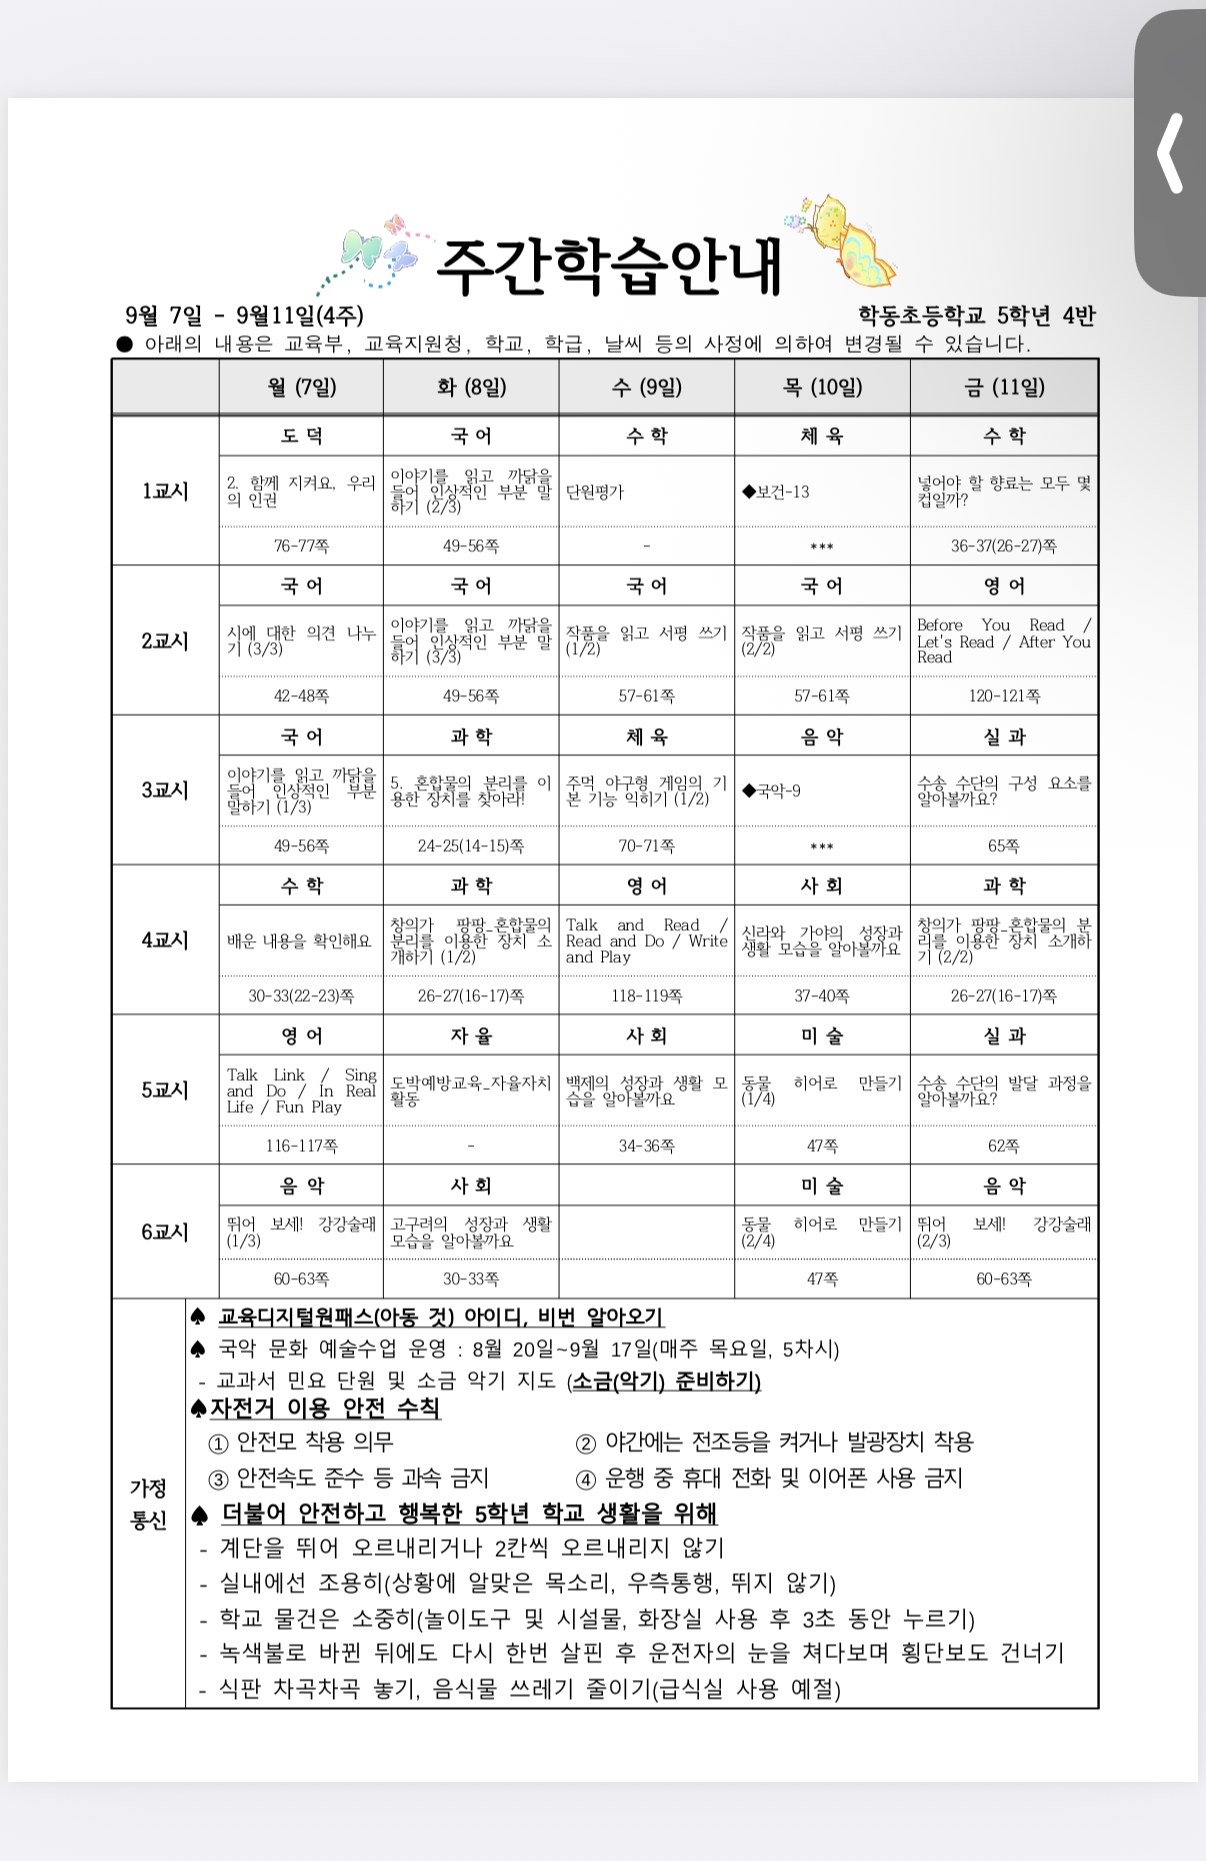
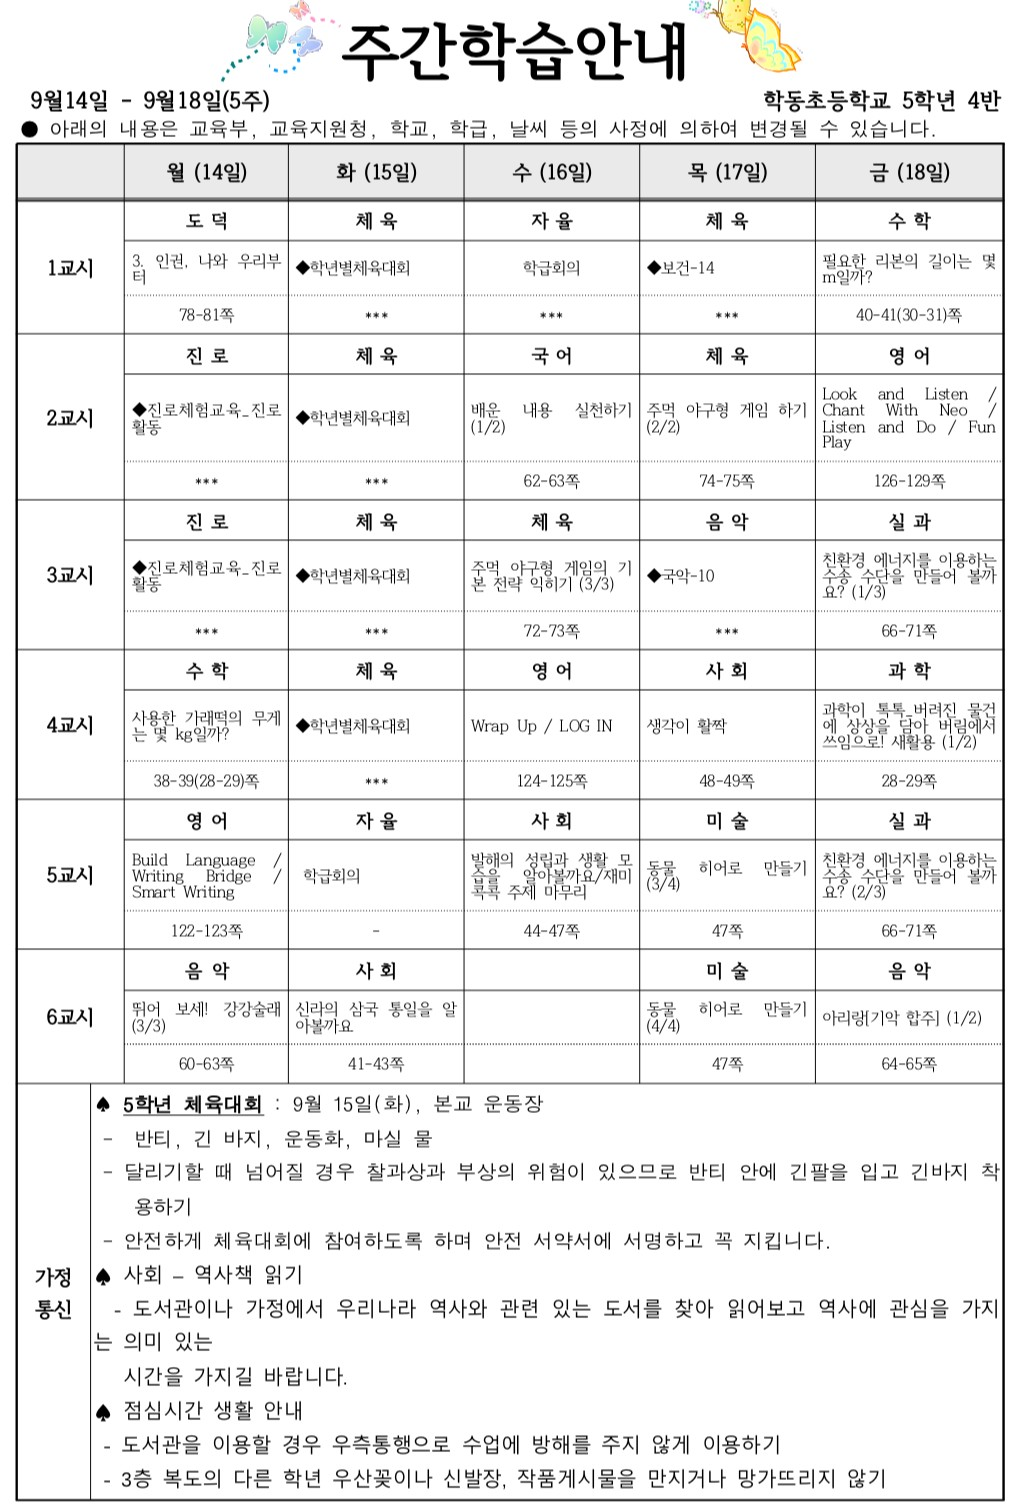
Add files via upload

Changed region(s): [[0.0, 0.0, 1.0, 0.9993], [0.9678, 0.9681, 0.999, 0.9993], [0.0, 0.9681, 0.0312, 0.9993]]

diff --git a/index.html b/index.html
@@ -309,6 +309,7 @@
         <button class="track intl" data-track="intl"><div class="temo">🌍</div><div><div class="tname">국제학교 준비</div><div class="tdesc" id="intlDesc">영어로 · 입학시험 대비</div></div><div class="tarr">›</div></button>
         <button class="track" data-curric="1"><div class="temo" style="background:var(--good-soft)">📚</div><div><div class="tname">이번 주 학교 진도</div><div class="tdesc">수업 전 예습 요약 · 배운 단원 복습 문제</div></div><div class="tarr">›</div></button>
         <button class="track" data-planner="1"><div class="temo" style="background:var(--accent-soft)">📅</div><div><div class="tname">학교생활 플래너</div><div class="tdesc">시간표 · 학원 · 준비물 · 공지</div></div><div class="tarr">›</div></button>
+        <button class="track" id="examTrackBtn" data-exam="1" style="display:none"><div class="temo" style="background:#ffe0e6">📝</div><div><div class="tname">중간고사 준비</div><div class="tdesc">2학기 1차 · 과목별 시험범위 요약 · 예상문제</div></div><div class="tarr">›</div></button>
       </div>
     </div>
 
@@ -530,6 +531,8 @@
     <div id="acList"></div>
     <div class="section-t">🎒 준비물</div>
     <div id="supList"></div>
+    <div class="section-t" id="alrimTitle" style="display:none">📮 이번 주 알림장</div>
+    <div id="plAlrim"></div>
     <div class="section-t">📌 학교 공지 · 메모</div>
     <textarea id="plNotice" class="plnotice" placeholder="학교 공지사항이나 메모를 적어요 (붙여넣기 가능)"></textarea>
     <div class="note-inline" style="margin-top:8px">✏ 입력하면 자동 저장돼요 (이 기기)</div>
@@ -558,6 +561,11 @@
     <div class="qtop"><button class="back" id="curBack" aria-label="뒤로">←</button><div class="qcount" id="curTitle" style="flex:1">📚 이번 주 학교 진도</div></div>
     <div id="curBody"></div>
     <div id="curQuiz" class="hidden"></div>
+  </div>
+
+  <div id="exam" class="hidden">
+    <div class="qtop"><button class="back" id="examBack" aria-label="뒤로">←</button><div class="qcount" id="examTitle" style="flex:1">📝 중간고사 준비</div></div>
+    <div id="examBody"></div>
   </div>
 </div>
 
@@ -1172,7 +1180,7 @@
   let ivIndex=0, ivRecog=null, ivRecActive=false;
   let practiceMode=false;
 
-  function show(s){ ["home","quiz","result","wrongbook","interview","readhw","pin","units","cal","status","glossary","readaloud","admin","wordorder","dict","summary","planner","viet","curric","submenu","adminchild"].forEach(x=>$(x).classList.toggle("hidden", x!==s)); const cb=$("crumb"); if(cb) cb.textContent=(s==="admin"||s==="adminchild")?"관리":((typeof child!=="undefined"&&child)?child.name:"시작"); window.scrollTo(0,0); }
+  function show(s){ ["home","quiz","result","wrongbook","interview","readhw","pin","units","cal","status","glossary","readaloud","admin","wordorder","dict","summary","planner","viet","curric","submenu","adminchild","exam"].forEach(x=>$(x).classList.toggle("hidden", x!==s)); const cb=$("crumb"); if(cb) cb.textContent=(s==="admin"||s==="adminchild")?"관리":((typeof child!=="undefined"&&child)?child.name:"시작"); window.scrollTo(0,0); }
   function homeStep(step){ $("vChild").classList.toggle("hidden",step!=="child"); $("vTrack").classList.toggle("hidden",step!=="track"); $("vSubject").classList.toggle("hidden",step!=="subject"); }
   function setCrumb(){ let t=child?child.name:"시작"; if(!$("vTrack").classList.contains("hidden")) t=child.name; if(!$("vSubject").classList.contains("hidden")) t=child.name+" · "+TRACKS[track].label; $("crumb").textContent=t; }
 
@@ -1227,6 +1235,7 @@
       $("krDesc").textContent = (child.g===8?"중2 과정":child.kGrade)+" · 수학·국어·영어";
       $("intlDesc").textContent = "영어로 · "+child.intlG+" "+child.intlNote;
     }
+    var eb=$("examTrackBtn"); if(eb) eb.style.display=(!adult && child.name==="태운")?"":"none";  // 중간고사: 태운 전용
     homeStep("track"); setCrumb(); show("home");
   }
   $("trackBack").addEventListener("click",gotoChild);
@@ -2090,8 +2099,29 @@
   function getPlan(){ const saved=LS.get(plKey(),null); return saved || defaultPlan(child.name); }
   function escAttr(s){ return String(s).replace(/&/g,'&amp;').replace(/"/g,'&quot;').replace(/</g,'&lt;'); }
   function openPlanner(){ renderPlanner(); show("planner"); }
+  // 담임 알림장 (실제 알림장 기반 · 주간)
+  const ALRIM = {
+    "태희": { when:"9월 11일(금) · 설운경 선생님", items:[
+      "다음 주 읽을 책 정하기 (주말에도 40쪽 분량 읽고 오기)",
+      "소금 '도라지' 연습하기 (소금 악보로)",
+      "사회 배운 내용 교과서·공책 읽으며 복습하기",
+      "체육대회 — 화요일(9/15): 반티, 긴팔 상하의, 모자, 물, 운동화",
+      "안전하고 즐거운 주말 보내고 오기" ] },
+    "태정": { when:"이번 주 알림 · 4학년 3반", items:[
+      "안전: 독감 주의(손씻기·마스크), 일교차 큼 → 얇은 겉옷 챙기기",
+      "숙제(이번 주 많음!): 수학 수행평가지 부모님 확인받아 오기(7·13·19번)",
+      "실과 54~55쪽 정리하기",
+      "배움공책에 '한글' 주제로 새로운 사실 1가지 조사(4~5줄)",
+      "독서감상문 — 독서기록장에 쓰기",
+      "월요일: 줄넘기 챙기기 · 준비물/과제 스스로 챙기기",
+      "※ 2학기엔 숙제 당일 제출 안 되면 남아서 해요 — 미리미리!" ] }
+  };
   function renderPlanner(){
     const pl=getPlan(); $("plTitle").textContent="📅 "+child.name+" 플래너";
+    // 알림장 카드
+    var al=ALRIM[child.name], aw=$("plAlrim"), at=$("alrimTitle");
+    if(al){ at.style.display=""; aw.innerHTML='<div class="card" style="margin-bottom:6px"><div class="note-inline" style="margin-bottom:8px">'+al.when+'</div><ul style="margin:0;padding-left:18px;line-height:1.8;font-size:.9rem">'+al.items.map(function(x){return "<li>"+x+"</li>";}).join("")+'</ul></div>'; }
+    else { at.style.display="none"; aw.innerHTML=""; }
     let th='<thead><tr><th>교시</th>'+PLDAYS.map(function(d){return '<th>'+d+'</th>';}).join('')+'</tr></thead><tbody>';
     var mpx=6; Object.keys(pl.tt).forEach(function(k){ var p=parseInt((k.split('-')[1]||'0'),10); if(p>mpx)mpx=p; });
     for(var pr=1;pr<=mpx;pr++){ th+='<tr><td>'+pr+'</td>'+PLDAYS.map(function(d){ var v=(pl.tt[d+'-'+pr]||''); return '<td><input class="pl-in" data-tt="'+d+'-'+pr+'" value="'+escAttr(v)+'"></td>'; }).join('')+'</tr>'; }
@@ -2637,6 +2667,87 @@
   }
   $("curBack").addEventListener("click",gotoTrack);
   document.querySelectorAll('[data-curric]').forEach(b=>b.addEventListener("click",openCurric));
+
+  // ============ 태운 중간고사 준비 (석우중 2학년 · 2학기 1차) ============
+  const EXAM_TAEUN = [
+    { emo:"📐", subj:"수학", badges:["IV. 삼각형과 사각형의 성질","교과서 p.136~179 (프린트·학습지 포함)","총 22문항 (선택 19 + 논술 3)"],
+      sum:["이등변삼각형: 두 밑각의 크기가 같다. 꼭지각의 이등분선은 밑변을 수직이등분한다.",
+           "삼각형의 외심 = 세 변의 수직이등분선의 교점 → 세 꼭짓점까지 거리가 같다(외접원 반지름).",
+           "삼각형의 내심 = 세 내각의 이등분선의 교점 → 세 변까지 거리가 같다(내접원 반지름).",
+           "평행사변형의 성질: 두 쌍의 대변·대각이 각각 같고, 두 대각선은 서로 이등분한다.",
+           "직사각형(대각선 길이 같음)·마름모(대각선이 수직이등분)·정사각형·등변사다리꼴의 성질 구분.",
+           "평행선 사이 넓이: 밑변과 높이가 같으면 넓이가 같다."],
+      ex:[["이등변삼각형 ABC(AB=AC)에서 꼭지각 ∠A=40°일 때 ∠B의 크기는?","∠B=∠C=(180−40)/2 = 70°"],
+          ["평행사변형 ABCD에서 ∠A=110°이면 이웃한 ∠B는?","대각의 합 180° → ∠B = 70°"],
+          ["삼각형의 외심에서 세 꼭짓점까지의 거리가 같은 이유를 서술하시오. (논술)","외심은 세 변의 수직이등분선의 교점이고, 수직이등분선 위의 점은 양 끝점까지 거리가 같으므로 세 꼭짓점까지의 거리가 모두 같다."],
+          ["마름모의 두 대각선이 갖는 성질 2가지를 쓰시오.","① 서로 다른 것을 수직이등분한다 ② 각 대각선이 마름모의 대각을 이등분한다."]] },
+    { emo:"📖", subj:"국어", badges:["1단원(2) 문학 속의 삶","2단원(1)(2) 읽기·글쓰기","4단원(2) 매체 자료","선택 22 + 논술 2 · 연계 학습지 필수"],
+      sum:["작품: 「수난이대」, 「가난한 사랑 노래」, 시 3편(학습지) — 연계 학습지 전부 꼼꼼히!",
+           "「수난이대」(하근찬): 만도(아버지)-진수(아들) 2대에 걸친 수난(일제 강제징용·6·25). '외나무다리'는 고난 극복과 부자의 화해·협력을 상징.",
+           "「가난한 사랑 노래」(신경림): 가난 때문에 포기하는 것들. 설의법·반어 등 표현법과 그 효과.",
+           "글과 자료 평가하며 읽기: 내용의 타당성·신뢰성·공정성을 판단하며 읽기.",
+           "복합양식(글+그림+도표) 자료를 활용한 글쓰기, 매체가 현실을 재현하는 방식(관점·의도) 파악."],
+      ex:[["「수난이대」에서 '외나무다리'가 상징하는 바는?","2대에 걸친 수난의 극복, 그리고 아버지와 아들의 화해·협력."],
+          ["「가난한 사랑 노래」에 쓰인 표현법 1가지와 효과를 서술하시오. (논술)","설의법('왜 모르겠는가') — 가난 때문에 감정마저 포기해야 하는 현실을 강조하고 독자의 공감을 이끈다."],
+          ["글의 신뢰성을 판단하는 기준은?","출처가 분명하고 근거(자료·통계)가 정확하며 최신인지, 전문성이 있는지 확인한다."]] },
+    { emo:"🔬", subj:"과학", badges:["과학A: Ⅰ.물질의 특성 (p.12~31, 45~47)","과학B: Ⅶ.전기와 자기 (p.234~249, 267~269)","선택 22(90점)+논술 2(10점) = 24문항"],
+      sum:["순물질(한 종류)과 혼합물(둘 이상), 균일/불균일 혼합물 구분.",
+           "물질의 특성 = 끓는점·녹는점·어는점·밀도·용해도 (물질마다 고유한 값).",
+           "밀도 = 질량/부피. 밀도가 크면 가라앉고 작으면 뜬다.",
+           "용해도 = 일정 온도에서 용매 100g에 녹는 용질의 최대 g수.",
+           "혼합물 분리: 끓는점 차(증류), 밀도 차, 용해도 차(재결정), 거름.",
+           "전류·전압·저항, 옴의 법칙 V=I×R. 저항의 직렬·병렬 연결.",
+           "전류의 자기 작용(도선 주위 자기장), 자기장 속 전류가 받는 힘(전동기), 전자기 유도(발전기)."],
+      ex:[["저항 5Ω 양끝에 10V를 걸면 흐르는 전류의 세기는?","I = V/R = 10/5 = 2A"],
+          ["밀도가 물(1g/㎤)보다 큰 물질은 물에 뜰까 가라앉을까?","가라앉는다."],
+          ["순물질과 혼합물의 차이를 예를 들어 서술하시오. (논술)","순물질은 한 종류의 물질로 이루어져 끓는점 등이 일정하다(예: 물, 소금). 혼합물은 두 종류 이상이 섞여 성분비에 따라 성질이 달라진다(예: 소금물, 공기)."]] },
+    { emo:"📜", subj:"역사", badges:["교과서 108~121 · 130~134 · 172~174쪽","객관식 5지선다 20문항(100점)","전 범위 고르게 출제"],
+      sum:["시험범위가 3개 구간으로 나뉘어 있어요 → 각 구간 페이지를 빠짐없이 정리!",
+           "교과서 본문뿐 아니라 읽기 자료·사진·지도·연표까지 꼼꼼히 (사진/지도 보고 시대·사건 맞히는 문제 대비).",
+           "5지선다 20문항이 전 범위에 고르게 나오니, 특정 단원만 보지 말고 전체를 얕고 넓게 훑기.",
+           "💡 정확한 단원명을 알려주면(교과서 108·130·172쪽 소제목) 내가 단원별 핵심 요약·예상문제를 딱 맞게 채워줄게요!"],
+      ex:[["시험 유형 예시","「다음 지도가 나타내는 시기의 정치 상황으로 옳은 것은?」처럼 지도·사진 자료 해석형이 자주 나와요."],
+          ["공부 팁","페이지마다 ①핵심 사건 ②연도 ③관련 인물·문화재 사진을 카드로 정리하면 5지선다에 강해져요."]] },
+    { emo:"🛠", subj:"기술·가정 (논술)", badges:["재료의 특성에 따른 활용 논술","평가일 9월 2~3주초"],
+      sum:["1. 목재의 특성(2가지): 가볍고 가공이 쉽다 / 열·전기를 잘 전달하지 않는다(단열) / 무늬가 아름답다 / 단, 습기에 약해 변형·부패가 될 수 있다.",
+           "2. 목재 침대용 가공재: 집성목(작은 목재를 접착 → 변형이 적고 큰 판 제작) 또는 합판(얇은 판을 엇결로 붙여 뒤틀림이 적음).",
+           "3. 철금속: 철에 탄소를 넣으면 단단해진다. 탄소강(탄소 약 0.035~2.11%)은 강도·경도가 크다. 주철(탄소 2.11% 이상)은 잘 부서지지만 녹여 틀에 붓는 주조에 적합.",
+           "4. 열가소성 플라스틱: 열을 가하면 물러지고 식으면 굳어 재가공·재활용 가능(폴리에틸렌PE, 폴리프로필렌PP). 열경화성 플라스틱: 한 번 굳으면 열을 가해도 다시 물러지지 않음(페놀수지, 멜라민수지).",
+           "5. 실생활 제품 소개(95~105자): 재료 명칭·특성·가공 방법을 넣어 한 단락으로."],
+      ex:[["실생활 제품 소개 예시문 (95~105자)","스테인리스 텀블러는 철에 크롬을 섞은 스테인리스강으로 만든다. 녹이 잘 슬지 않고 보온이 잘돼, 판을 둥글게 말고 용접해 이중벽을 만든 뒤 진공 처리해 완성한다."]] },
+    { emo:"⚖", subj:"도덕 (수행)", badges:["환경보호 게시물 만들기 25점","평가일 9/10 (완료)"],
+      sum:["사상가 1명 선택 → 시각자료(인물 사진) + 자연을 바라보는 관점 서술 + 자연 개발 찬반 글 + 관련 해시태그 2개(#0000 형식) + 인간·자연의 바람직한 관계를 4컷 만화로.",
+           "답안은 검정 볼펜, 교과서·학습지 내용으로 정확히, 40분."] , ex:[] },
+    { emo:"🇨🇳", subj:"중국어 (수행)", badges:["한어병음 말하기 구술 25점(25%)","반별 9/28~9/30"],
+      sum:["성조 4개: 1성(ā 높고 평평)·2성(á 올림)·3성(ǎ 내렸다 올림)·4성(à 내림).",
+           "성조·성모·운모를 정확히, 연속 성조(3성+3성 → 2성+3성 변조)에 유의해 읽기.",
+           "간단한 문장으로 대답하기 + 한어병음 보고 소리 내어 읽기. 1인당 제한 시간 1분(시작 전 학번·이름 말하기).",
+           "💡 매일 병음 5개씩 큰 소리로 또박또박 읽기 연습 추천."], ex:[] },
+    { emo:"🎵", subj:"음악 (수행)", badges:["2학기 수행평가 일정 진행","소금·국악 등"],
+      sum:["소금 '도라지' 등 실기 곡 연습 + 국악/가창 수행평가 일정 확인.",
+           "학교 배부 '수행평가 일정(2학기)' 캘린더대로 준비."], ex:[] }
+  ];
+  function openExam(){
+    $("examTitle").textContent="📝 태운 · 중간고사 준비 (2학기 1차)";
+    var wrap=$("examBody"); wrap.innerHTML="";
+    var intro=document.createElement("div"); intro.className="note-inline"; intro.style.margin="4px 0 12px";
+    intro.innerHTML="석우중학교 2학년 · 2학기 1차 정기시험 대비예요. 과목을 눌러 시험범위 요약과 예상문제를 확인하세요. 예상문제는 <b>「답·해설」</b>을 눌러 확인해요.";
+    wrap.appendChild(intro);
+    EXAM_TAEUN.forEach(function(s){
+      var card=document.createElement("div"); card.className="card"; card.style.marginBottom="12px";
+      var h="<div style='font-size:1.05rem;font-weight:800;margin-bottom:6px'>"+s.emo+" "+s.subj+"</div>";
+      h+="<div style='display:flex;flex-wrap:wrap;gap:5px;margin-bottom:10px'>"+s.badges.map(function(b){return "<span style='font-size:.72rem;background:var(--accent-soft);color:var(--accent-2,#c0392b);border-radius:20px;padding:3px 9px'>"+b+"</span>";}).join("")+"</div>";
+      h+="<div style='font-weight:700;font-size:.86rem;margin:4px 0 4px'>📌 핵심 요약</div><ul style='margin:0 0 6px;padding-left:18px;font-size:.86rem;line-height:1.7'>"+s.sum.map(function(x){return "<li>"+x+"</li>";}).join("")+"</ul>";
+      if(s.ex && s.ex.length){
+        h+="<div style='font-weight:700;font-size:.86rem;margin:10px 0 4px'>✏ 예상문제</div>";
+        s.ex.forEach(function(q,i){ h+="<div style='background:var(--surface,#faf7f3);border:1px solid var(--border);border-radius:8px;padding:9px 11px;margin-bottom:6px;font-size:.86rem'><b>Q"+(i+1)+".</b> "+q[0]+"<details style='margin-top:5px'><summary style='color:var(--accent-2,#c0392b);font-weight:700;cursor:pointer;font-size:.82rem'>답·해설 보기</summary><div style='margin-top:5px;color:var(--text-2,#555)'>"+q[1]+"</div></details></div>"; });
+      }
+      card.innerHTML=h; wrap.appendChild(card);
+    });
+    show("exam");
+  }
+  $("examBack").addEventListener("click",gotoTrack);
+  document.querySelectorAll('[data-exam]').forEach(function(b){ b.addEventListener("click",openExam); });
 
   // init
   renderKids(); gotoChild();
